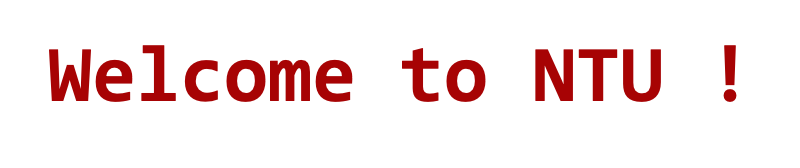
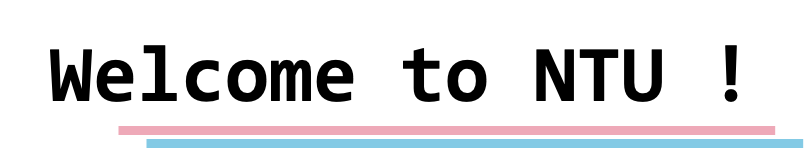
update gamesetting.py
-多加了如果玩家重複選角或未選角會跳出警告，並且不會開始遊戲
-改成跟map一樣的顏色（gameover還沒改顏色，如果大家確定封面可以的話我再改gameover的顏色讓他們一致）

diff --git a/gamesetting.py b/gamesetting.py
@@ -3,6 +3,7 @@ from PIL import Image, ImageTk
 import tkinter.font as tkfont
 from tkinter import ttk
 
+chooseplayerdict = dict()
 class Window(tk.Frame):
     def __init__(self):
         tk.Frame.__init__(self)
@@ -11,45 +12,47 @@ class Window(tk.Frame):
 
 
     def create_widgets(self):
-		
         #建立物件
         font1 = tkfont.Font(size = 32, family = "Hei")
-        self.space = tk.Label(self, height = 1, width = 1, text = ' ', bg = 'black')
+        self.space = tk.Label(self, height = 1, width = 1, text = ' ')
+        self.space2 = tk.Label(self, height = 1, width = 20, text = '')
         self.png1 = ImageTk.PhotoImage(file='1.png')
-        self.lb1 = tk.Label(self, height = 200, width = 450, image = self.png1, bg = 'black')#台大大富翁
+        self.lb1 = tk.Label(self, height = 350, width = 750, image = self.png1)#台大大富翁
         self.png2 = ImageTk.PhotoImage(file='2.png')
-        self.lb2 = tk.Label(self, height = 80, width = 700, image = self.png2, bg = 'black')#welcome to ntu
-        self.numofuser = tk.Label(self, height = 1, width = 15, font = font1, text = "請選擇玩家人數：", bg = 'black', fg = 'white')
+        self.lb2 = tk.Label(self, height = 150, width = 700, image = self.png2)#welcome to ntu
+        self.numofuser = tk.Label(self, height = 1, width = 15, font = font1, text = "請選擇玩家人數：")
         radiovalue = tk.IntVar()
-        self._2p = tk.Radiobutton(self, height = 1, width = 5, font = font1, text = "2人", variable = radiovalue, value = 2, command = self.click2users, bg = 'black', fg = 'white')
-        self._3p = tk.Radiobutton(self, height = 1, width = 5, font = font1, text = "3人", variable = radiovalue, value = 3, command = self.click3users, bg = 'black', fg = 'white')
-        self._4p = tk.Radiobutton(self, height = 1, width = 5, font = font1, text = "4人", variable = radiovalue, value = 4, command = self.click4users, bg = 'black', fg = 'white')
-        self.player1 = tk.Label(self, height = 1, width = 10, font = font1, text = "玩家 1", bg = 'black', fg = 'white')
-        self.player2 = tk.Label(self, height = 1, width = 10, font = font1, text = "玩家 2", bg = 'black', fg = 'white')
-        self.player3 = tk.Label(self, height = 1, width = 10, font = font1, text = "玩家 3", bg = 'black', fg = 'white')
-        self.player4 = tk.Label(self, height = 1, width = 10, font = font1, text = "玩家 4", bg = 'black', fg = 'white')
-        playerlist1 = [' ★ ', ' ❤ ', ' ✿ ', ' 😀 ']
-        playerlist2 = [' ★ ', ' ❤ ', ' ✿ ', ' 😀 ']
-        playerlist3 = [' ★ ', ' ❤ ', ' ✿ ', ' 😀 ']
-        playerlist4 = [' ★ ', ' ❤ ', ' ✿ ', ' 😀 ']
-        self.chooseplayer1 = ttk.Combobox(self, values = playerlist1, state = 'readonly')
-        self.chooseplayer2 = ttk.Combobox(self, values = playerlist2, state = 'readonly')
-        self.chooseplayer3 = ttk.Combobox(self, values = playerlist3, state = 'readonly')
-        self.chooseplayer4 = ttk.Combobox(self, values = playerlist4, state = 'readonly')
-        self.startbtn = tk.Button(self, text = '開始！', bg = 'black', font = font1, fg = 'white', command = self.start)  # 開始的按鈕
+        self._2p = tk.Radiobutton(self, height = 1, width = 5, font = font1, text = "2人", variable = radiovalue, value = 2, command = self.click2users)
+        self._3p = tk.Radiobutton(self, height = 1, width = 5, font = font1, text = "3人", variable = radiovalue, value = 3, command = self.click3users)
+        self._4p = tk.Radiobutton(self, height = 1, width = 5, font = font1, text = "4人", variable = radiovalue, value = 4, command = self.click4users)
+        self.player1 = tk.Label(self, height = 1, width = 10, font = font1, text = "玩家 1")
+        self.player2 = tk.Label(self, height = 1, width = 10, font = font1, text = "玩家 2")
+        self.player3 = tk.Label(self, height = 1, width = 10, font = font1, text = "玩家 3")
+        self.player4 = tk.Label(self, height = 1, width = 10, font = font1, text = "玩家 4")
+        global playerlist
+        playerlist = [' ★ ', ' ❤ ', ' ✿ ', ' 😀 ']
+        self.chooseplayer1 = ttk.Combobox(self, values = playerlist, state = 'readonly')
+        self.chooseplayer1.bind('<<ComboboxSelected>>', self.comboclick1)
+        self.chooseplayer2 = ttk.Combobox(self, values = playerlist, state = 'readonly')
+        self.chooseplayer2.bind('<<ComboboxSelected>>', self.comboclick2)
+        self.chooseplayer3 = ttk.Combobox(self, values = playerlist, state = 'readonly')
+        self.chooseplayer3.bind('<<ComboboxSelected>>', self.comboclick3)
+        self.chooseplayer4 = ttk.Combobox(self, values = playerlist, state = 'readonly')
+        self.chooseplayer4.bind('<<ComboboxSelected>>', self.comboclick4)
+        self.startbtn = tk.Button(self, text = '開始！', bg = 'black', font = font1, command = self.start)  # 開始的按鈕
 
         #指定位置
         full = tk.NE + tk.SW
         up = tk.NE + tk.NW
-        self.lb1.grid(row = 40, column = 0, columnspan = 5)
-        self.lb2.grid(row = 41, column = 0, columnspan = 5, rowspan = 10)
+        self.lb1.grid(row = 40, column = 1, columnspan = 4)
+        self.lb2.grid(row = 41, column = 1, columnspan = 5, rowspan = 10)
         self.numofuser.grid(row = 80, column = 0, sticky = full)
         self._2p.grid(row = 80, column = 2, sticky = full)
         self._3p.grid(row = 80, column = 3, sticky = full)
         self._4p.grid(row = 80, column = 4, sticky = full)
         self.startbtn.grid(row = 90, column = 2, columnspan = 1)
         self.space.grid(row = 88, column = 0, rowspan = 1)
-
+        self.space2.grid(row = 40, column = 6, columnspan = 3)
 
         #定義command
     def click2users(self):
@@ -61,6 +64,8 @@ class Window(tk.Frame):
         self.chooseplayer3.grid_forget()
         self.player4.grid_forget()
         self.choosecolor4.grid_forget()
+        global n
+        n = 2
     def click3users(self):
         self.player1.grid(row = 82, column = 1)
         self.chooseplayer1.grid(row = 83, column = 1)
@@ -70,6 +75,8 @@ class Window(tk.Frame):
         self.chooseplayer3.grid(row = 83, column = 3)
         self.player4.grid_forget()
         self.chooseplayer4.grid_forget()
+        global n
+        n = 3
     def click4users(self):
         self.player1.grid(row = 82, column = 1)
         self.chooseplayer1.grid(row = 83, column = 1)
@@ -79,15 +86,78 @@ class Window(tk.Frame):
         self.chooseplayer3.grid(row = 83, column = 3)
         self.player4.grid(row = 82, column = 4)
         self.chooseplayer4.grid(row = 83, column = 4)
-        
+        global n
+        n = 4
+
+
+    def comboclick1(self, event):
+        p1label = self.chooseplayer1.get()
+        self.playerlabel1 = tk.Label(self, text = p1label)
+        chooseplayerdict['player1'] = p1label
+    def comboclick2(self, event):
+        p2label = self.chooseplayer2.get()
+        self.playerlabel2 = tk.Label(self, text = p2label)
+        chooseplayerdict['player2'] = p2label
+    def comboclick3(self, event):
+        p3label = self.chooseplayer3.get()
+        self.playerlabel3 = tk.Label(self, text = p3label)
+        chooseplayerdict['player3'] = p3label
+    def comboclick4(self, event):
+        p4label = self.chooseplayer4.get()
+        self.playerlabel4 = tk.Label(self, text = p4label)
+        chooseplayerdict['player4'] = p4label
+
+    def check_repeated_and_empty(self, chooseplayerdict):
+        players = list(chooseplayerdict.values())
+        for i in players:
+            if players.count(i) != 1:
+                return False
+            else:
+                return True
+
+        if n == 2:
+            if len(chooseplayerdict) != 2:
+                return False
+            else:
+                return True
+        elif n == 3:
+            if len(chooseplayerdict) != 3:
+                return False
+            else:
+                return True
+        else:  # n == 4
+            if len(chooseplayerdict) != 4:
+                return False
+            else:
+                return True
+
     def start(self):  # 開始遊戲的指令
-        global newframe
-        mywindow.destroy()  # 刪掉起始畫面
-        newframe = NewFrame()  # 創立（接）遊戲開始的畫面
-        newframe.configure(bg='black')
-        newframe.mainloop()
+        if self.check_repeated_and_empty(chooseplayerdict) == True:
+            global newframe
+            mywindow.destroy()  # 刪掉起始畫面
+            newframe = NewFrame()  # 創立（接）遊戲開始的畫面
+            newframe.configure(bg='black')
+            newframe.mainloop()
+        else:
+            global warning
+            warning = Warning()
 
 
+class Warning(tk.Frame):
+    def __init__(self):
+        tk.Frame.__init__(self)
+        self.grid()
+        self.create_widgets()
+    def create_widgets(self):
+        font1 = tkfont.Font(size = 32, family = "Hei")
+        self.lb = tk.Label(self, height = 6, width = 50, font = font1, text = "請重新選擇玩家\n(因重複選取或未選取)", bg = 'black', fg = 'white')
+        self.btn = tk.Button(self, text = '確定', bg = 'black', font = font1, command = self.confirm)
+        full = tk.NE + tk.SW
+        self.lb.grid(row = 1, column = 1, sticky = full)
+        self.btn.grid(row = 3, column = 1, sticky = full)
+
+    def confirm(self):
+        warning.destroy()
 
 class NewFrame(tk.Frame):  # 遊戲開始的畫面
     def __init__(self):
@@ -212,7 +282,6 @@ class NewFrame(tk.Frame):  # 遊戲開始的畫面
 
 mywindow = Window()
 mywindow.master.title("台大大富翁")
-mywindow.configure(bg = 'black')
 
 mywindow.mainloop()
 
